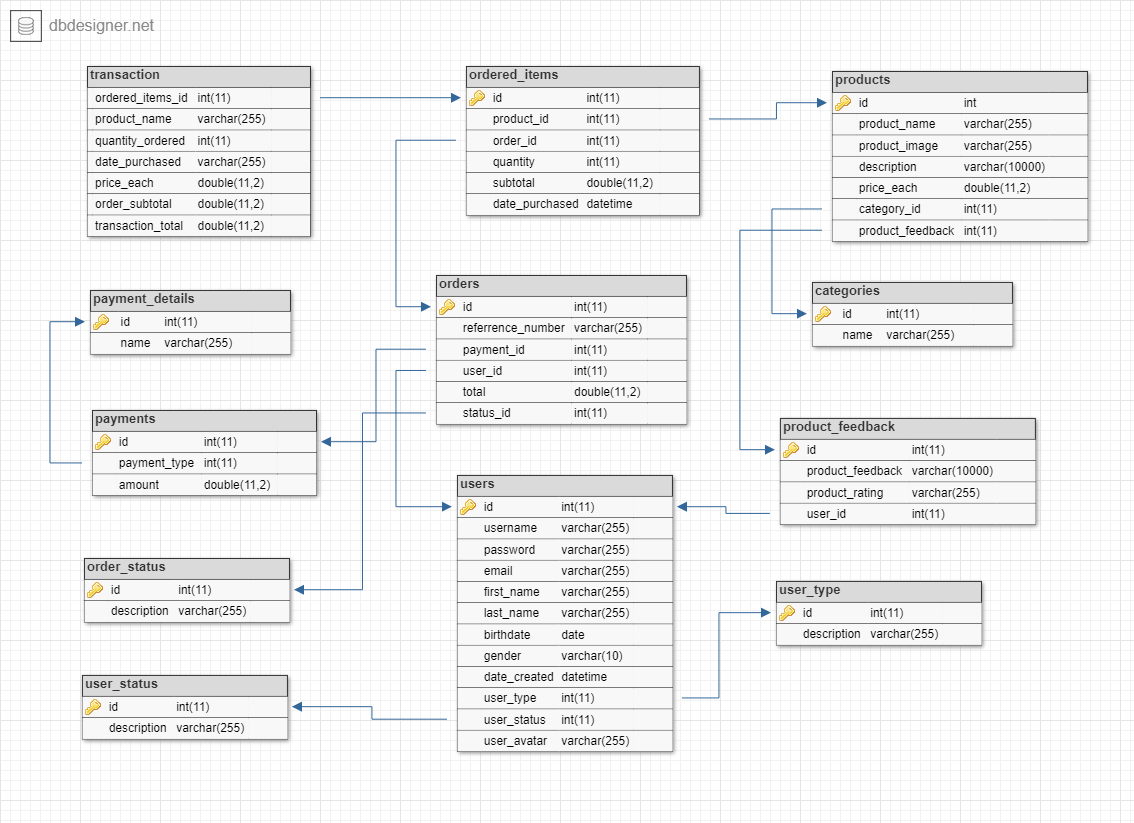
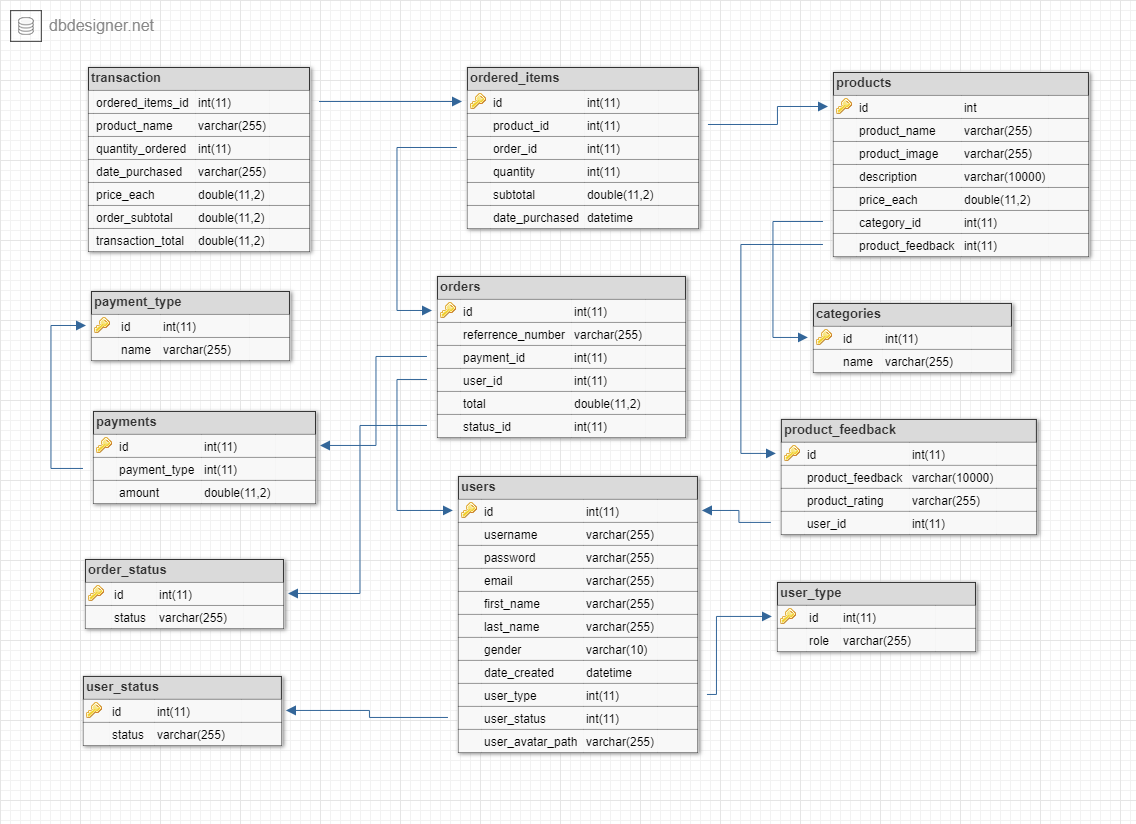
finished logic if admin is logged in, can register another account may it be admin, or user. almost finished logic of register page, username ajax, email ajax, password length, and confirm password. modified some fields in the database

diff --git a/assets/js/script.js b/assets/js/script.js
@@ -1,6 +1,61 @@
 $(document).ready(function(){
 
-	// Register form AJAX Sanitize
-	// $("#loginUsername")
-	
+	/////////////////
+	//REGISTER PAGE//
+	/////////////////
+
+	//checks username availablity
+	$("#createUsername").on("keyup", function(){
+		var createUsername = $(this).val();
+		$.ajax({
+			url:"lib/validateCreateUsername.php",
+			method: "POST",
+			data: {"createUsername" : createUsername},
+			success: function(data){
+				$("#usernameAvail").html(data);
+			}
+		})
+	});
+
+	//checks password is < 8 characters
+	$("#createPassword").on("keyup", function(){
+		var pass = $(this).val();
+		if(pass.length < 8 && pass.length > 0){
+			$("#passwordLength").html("Password too short.");
+		} else if (pass.length < 200 && pass.length > 8) {
+			$("#passwordLength").html("Password is Good.");
+		}
+	});
+
+	//confirms password credibility
+	$("#confirmPassword").on("keyup", function(){
+		var pword = $("#createPassword").val();
+		var confirmpw = $(this).val();
+
+		if(pword === confirmpw) {
+			$("#passwordMatch").html("Password matched!");
+		} else {
+			$("#passwordMatch").html("Password does not matched!");
+		}
+	});
+
+
+	//checks email availablity
+	$("#userEmail").on("keyup", function(){
+		var userEmail = $(this).val();
+		$.ajax({
+			url:"lib/validateUserEmail.php",
+			method: "POST",
+			data: {"userEmail" : userEmail},
+			success: function(data){
+				$("#emailAvail").html(data);
+			}
+		})
+	});
+
+	/////////////////
+	//REGISTER PAGE//
+	/////////////////
+
+
 })//$document.ready

diff --git a/register.php b/register.php
@@ -16,39 +16,52 @@
 		<h1>Register Page</h1>
 		<div class="container register-form">
 			<form action="createUser.php" method="POST">
+
 				<div class="form-group">
-					<label for="username">Username:* </label>
+					<label for="username">Username:* </label><span id="usernameAvail"></span>
 					<input type="text" class="form-control" name="createUsername" id="createUsername" placeholder="Enter Username" required>
 				</div>
+
 				<div class="form-group">
-					<label for="password">Password:* </label>
+					<label for="password">Password:* </label><span id="passwordLength"></span>
 					<input type="password" class="form-control" name="createPassword" id="createPassword" placeholder="Enter Password" required>
 				</div>
+
 				<div class="form-group">
-					<label for="email">Email:* </label>
+					<label for="confirmPassword">Confirm Password:* </label><span id="passwordMatch"></span>
+					<input type="password" class="form-control" name="confirmPassword" id="confirmPassword" placeholder="Confirm Password" required>
+				</div>
+
+				<div class="form-group">
+					<label for="email">Email:* </label><span id="emailAvail"></span>
 					<input type="email" class="form-control" name="userEmail" id="userEmail" placeholder="Enter email" required>
 				</div>
+
 				<div class="form-group">
 					<label for="firstName">First Name:* </label>
 					<input type="text" class="form-control" name="firstName" id="firstName" placeholder="Enter your first name" required>
 				</div>
+
 				<div class="form-group">
 					<label for="lastName">Last Name:* </label>
 					<input type="text" class="form-control" name="lastName" id="lastName" placeholder="Enter your last name" required>
 				</div>
+
 				<div class="form-group">
 					<label for="gender">Gender:* </label>
 					<input type="radio" name="gender" value="male"> Male
 					<input type="radio" name="gender" value="female"> Female
 				</div>
-				<!-- <div class="form-group"> -->
-					<label for="birthdate">Enter Birthday:* </label>
-					<select name="birthyear" id="birthyear">
-						<option value=""></option>
-					</select>
-					<input type="number" name="birthmonth" min="1" max="12" value="1">Month
-					<input type="number" name="birthday" min="1" max="31" value="1">Day
-				<!-- </div> -->
+
+				<?php if(isset($_SESSION['current_user']) && $_SESSION['user_type'] == "admin"){ ?>
+						<div class="form-group">
+							<label for="userType">User Type: (Admin Account Only)</label>
+							<select name="userType" id="userType">
+								<option value="admin">Admin</option>
+								<option value="user">User</option>
+							</select>
+						</div>
+				<?php } ?>
 			</form>
 		</div><!--container-->
 	

diff --git a/lib/validateLogin.php b/lib/validateLogin.php
@@ -1,17 +1,25 @@
 <?php 
 	
 	require "connect.php";
-
+	session_start();
 	$loginUsername = $_POST['loginUsername'];
 	$loginPassword = $_POST['loginPassword'];
 
-	$query = "SELECT * FROM users WHERE username = '$loginUsername' && password = '$loginPassword'";
-	$result = mysqli_query($conn, $query);
+	$login_query = "SELECT * FROM users u JOIN user_type ut WHERE username = '$loginUsername' && password = '$loginPassword' && u.user_type = ut.id ";
+	$log_in_result = mysqli_query($conn, $login_query);
 
-	if(mysqli_num_rows($result) == 0){
-		echo "Invalid Credentials";
+	if(mysqli_num_rows($log_in_result) == 0){
+		$_SESSION['invalid_credentials_msg'] = "Invalid Credentials. Try Again!";
+		header("Location: ../login.php");
 	} else {
-		echo "Good";
+		foreach ($log_in_result as $key) {
+			$_SESSION['current_user'] = $key['username'];
+			// echo $_SESSION['current_user'] ."<br>";
+			$_SESSION['user_type'] = $key['role'];
+			// echo $_SESSION['user_type'] ."<br>";
+		}
+		$_SESSION['invalid_credentials_msg'] = "";
+		header("Location: ../home.php");
 	}
 
 ?>

diff --git a/partials/navbar.php b/partials/navbar.php
@@ -1,5 +1,6 @@
 <?php if(isset($_SESSION['current_user'])){
 	echo $_SESSION['current_user'];
+	echo $_SESSION['user_type'];
 	// session_unset();
 	// session_destroy();
 	} else {
@@ -60,7 +61,7 @@
 		     	</li>
 	     	<?php } ?>
 			
-			<?php if(!isset($_SESSION['current_user'])){ ?>
+			<?php if(!isset($_SESSION['current_user']) || $_SESSION['user_type'] == "admin"){ ?>
 	     	<li class="nav-item">
 	        	<a class="nav-link" href="register.php">REGISTER</a>
 	     	</li>

diff --git a/lib/validateCreateUsername.php b/lib/validateCreateUsername.php
@@ -1,0 +1,17 @@
+<?php 
+
+	require "connect.php";
+
+	if(isset($_POST['createUsername'])){
+		$createUsername = $_POST['createUsername'];
+		$query = "SELECT * FROM users WHERE username = '$createUsername'";
+		$result = mysqli_query($conn, $query);
+
+		if(mysqli_num_rows($result) > 0){
+			echo "Username Already Exists";
+		} else {
+			echo "Username available";
+		}
+	}
+
+?>

diff --git a/lib/validateUserEmail.php b/lib/validateUserEmail.php
@@ -1,0 +1,17 @@
+<?php 
+
+	require "connect.php";
+
+	if(isset($_POST['userEmail'])){
+		$userEmail = $_POST['userEmail'];
+		$query = "SELECT * FROM users WHERE email = '$userEmail'";
+		$result = mysqli_query($conn, $query);
+
+		if(mysqli_num_rows($result) > 0){
+			echo "Email Already Exists";
+		} else {
+			echo "Email available";
+		}
+	}
+
+?>

diff --git a/login.php b/login.php
@@ -14,6 +14,13 @@
 		<h1> Login Page</h1>
 
 		<div class="container">
+			<p>
+				<?php 
+					if(isset($_SESSION['invalid_credentials_msg'])){
+						echo $_SESSION['invalid_credentials_msg'];
+					}
+				?>
+			</p>
 			<form action="lib/validateLogin.php" method="POST">
 				<div class="form-group">
 					<label for="username">Username: </label>

diff --git a/logout.php b/logout.php
@@ -3,11 +3,9 @@
 		function getTitle(){
 			echo "Logout Page";
 		}
-
-		if(isset($_SESSION['current_user']) && !empty($_SESSION['current_user'])){
-			session_unset();
-			session_destroy(); 
-		}
+		session_start();
+		session_unset();
+		session_destroy(); 
 	?>
 </head>
 <body>

diff --git a/lib/createUser.php b/lib/createUser.php
@@ -1,5 +1,5 @@
 <?php 
 	require "connect.php";
 
-	
+		
 ?>
